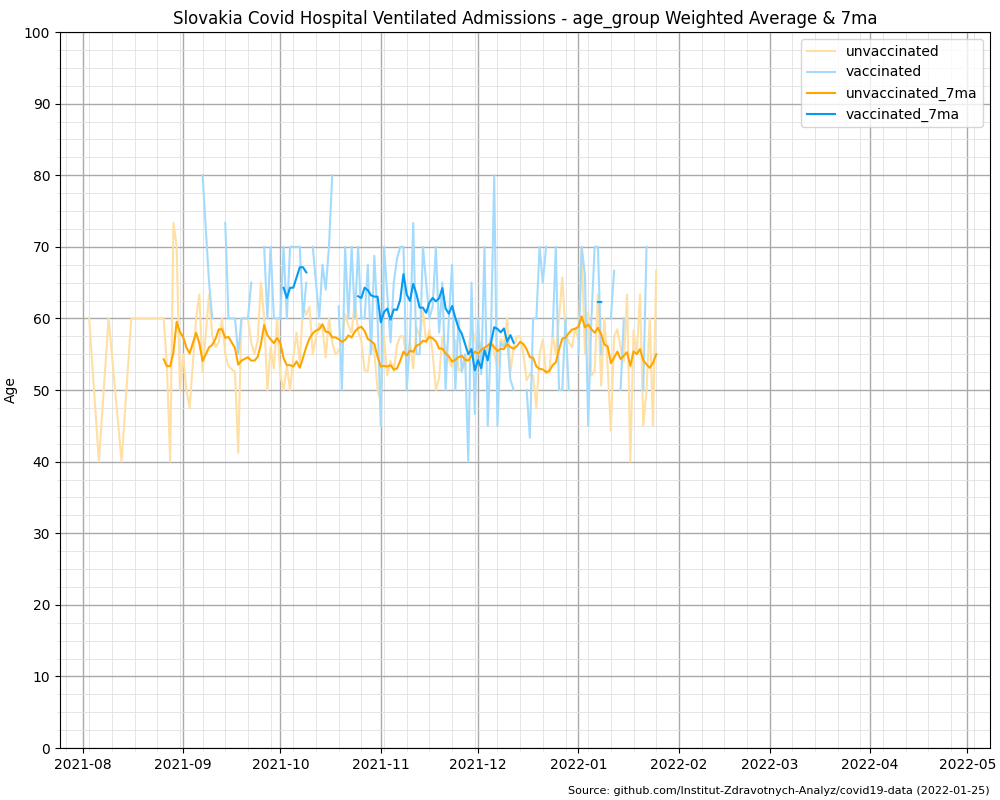
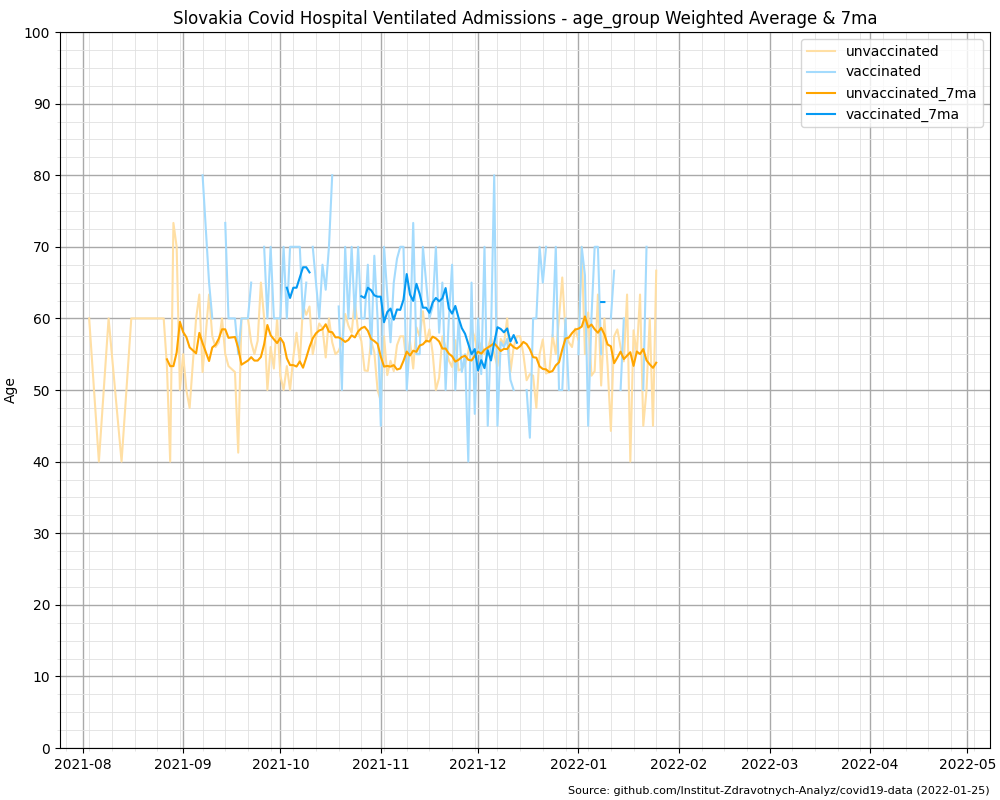
Update 2022-01-26 Updated 7ma function in Ventilated_Admissions_Age_WAverage_by_Vaccine_Daily.py Updated 7ma function and changed weekly bars to daily in Admissions_Age_WAverage_by_Vaccine_Daily.py

diff --git a/Hospitalizations/Admissions_Age_WAverage_by_Vaccine_Daily.py b/Hospitalizations/Admissions_Age_WAverage_by_Vaccine_Daily.py
@@ -62,24 +62,21 @@ if is_uri_ok(uri):
   result = pd.DataFrame.join(wa_unvaccinated.to_frame(), wa_vaccinated.to_frame(), on='Date')
   result = result.join(unk.to_frame(), on='Date')
 
-  # - Add moving average
-  result['unvaccinated_7ma'] = result['unvaccinated'].rolling(7).mean()
-  result['vaccinated_7ma'] = result['vaccinated'].rolling(7).mean()
-  result['unknown_7ma'] = result['unknown'].rolling(7).mean()
+  # - Moving average
+  result['unvaccinated_7ma'] = result['unvaccinated'].rolling(7, closed='left').mean()
+  result['vaccinated_7ma'] = result['vaccinated'].rolling(7, closed='left').mean()
+  result['unknown_7ma'] = result['unknown'].rolling(7, closed='left').mean()
 
-  # --- Sum admissions Weekly - Axis 1
-  rawAdm = raw
-  rawAdm['WeekDateMO'] = rawAdm['Date'] - rawAdm['Date'].dt.weekday.astype('timedelta64[D]') # Create week start date (Monday)
-
-  # - Sum vaccine status (True/False) on admissions
-  pA = pd.pivot_table(rawAdm, index=['WeekDateMO', 'age_group'] , columns=['Vaccinated'], values='Admissions', aggfunc=np.sum, fill_value=0)
-  pA = pA.rename(columns={False:'unvaccinated', True:'vaccinated'})
-
-  # - Sum admissions
+  # --- Sum admissions Daily - Axis 1
   resultAD = pd.DataFrame()
-  resultAD['unvaccinated_adm'] = pA['unvaccinated'].groupby(level=['WeekDateMO']).sum()
-  resultAD['vaccinated_adm'] = pA['vaccinated'].groupby(level=['WeekDateMO']).sum()
-  resultAD['unknown_adm'] = pA['unknown'].groupby(level=['WeekDateMO']).sum()
+  resultAD['unvaccinated_adm'] = p['unvaccinated'].groupby(level=['Date']).sum()
+  resultAD['vaccinated_adm'] = p['vaccinated'].groupby(level=['Date']).sum()
+  resultAD['unknown_adm'] = p['unknown'].groupby(level=['Date']).sum()
+
+  # - Moving average
+  resultAD['unvaccinated_adm_7ma'] = resultAD['unvaccinated_adm'].rolling(7, closed='left').mean()
+  resultAD['vaccinated_adm_7ma'] = resultAD['vaccinated_adm'].rolling(7, closed='left').mean()
+  resultAD['unknown_adm_7ma'] = resultAD['unknown_adm'].rolling(7, closed='left').mean()
 
   # print(result)
   # print(resultAD)
@@ -90,7 +87,7 @@ if is_uri_ok(uri):
 
   # Common axis settings:
   for ax in axs:
-    ax.set_prop_cycle(color=['#898989','#069af3','#ffa500'])
+    ax.set_prop_cycle(color=['#D9D9D9','#A4DBFD','#FFDFA4','#898989','#069af3','#ffa500'])
     # Grid, major and minor ticks settings
     ax.grid(visible=True, which='both')
     ax.minorticks_on()
@@ -109,7 +106,6 @@ if is_uri_ok(uri):
   
   # 0. Axis - Daily weighten average age
   ax = axs[0]
-  ax.set_prop_cycle(color=['#D9D9D9','#A4DBFD','#FFDFA4','#898989','#069af3','#ffa500'])
   ax.plot(result['unknown'], label='unknown')
   ax.plot(result['vaccinated'], label='vaccinated')
   ax.plot(result['unvaccinated'], label='unvaccinated')
@@ -125,17 +121,21 @@ if is_uri_ok(uri):
   ax.set_ylabel("Age")
   ax.set_ylim(35, 85)
 
-  # 1. Axis - Weekly admissions
+  # 1. Axis - Daily admissions
   ax = axs[1]
-  ax.bar(resultAD.index, resultAD['unknown_adm'].values, width=4, align='edge')
-  ax.bar(resultAD.index, resultAD['vaccinated_adm'].values, bottom=resultAD['unknown_adm'].values, width=4, align='edge')
-  ax.bar(resultAD.index, resultAD['unvaccinated_adm'].values, bottom=resultAD['unknown_adm'].values+resultAD['vaccinated_adm'].values, width=4, align='edge')  
-  ax.set_title('Slovakia Covid Hospital Admission Weekly', loc='left', y=0.9, x=0.02, fontsize='medium', backgroundcolor='white')
-  ax.yaxis.set_major_locator(mticker.MultipleLocator(1000))
-  ax.yaxis.set_minor_locator(mticker.MultipleLocator(200))
+  ax.bar(resultAD.index, resultAD['unknown_adm'].values, width=1, align='edge')
+  ax.bar(resultAD.index, resultAD['vaccinated_adm'].values, bottom=resultAD['unknown_adm'].values, width=1, align='edge')
+  ax.bar(resultAD.index, resultAD['unvaccinated_adm'].values, bottom=resultAD['unknown_adm'].values+resultAD['vaccinated_adm'].values, width=1, align='edge')
+  ax.set_prop_cycle(color=['#898989','#069af3','#ffa500'])
+  ax.plot(resultAD['unknown_adm_7ma'], label='unknown_7ma')
+  ax.plot(resultAD['vaccinated_adm_7ma']+resultAD['unknown_adm_7ma'].values, label='vaccinated_7ma')
+  ax.plot(resultAD['unvaccinated_adm_7ma']+resultAD['unknown_adm_7ma'].values+resultAD['vaccinated_adm_7ma'].values, label='unvaccinated_7ma')
+  ax.set_title('Slovakia Covid Hospital Admission Daily', loc='left', y=0.9, x=0.02, fontsize='medium', backgroundcolor='white')
+  ax.yaxis.set_major_locator(mticker.MultipleLocator(100))
+  ax.yaxis.set_minor_locator(mticker.MultipleLocator(20))
   ax.set_xlabel(None)
   ax.set_ylabel("Admissions", labelpad=0)
-  ax.set_ylim(0, 3000)
+  ax.set_ylim(0, 500)
 
   # Note inside plot
   ax.annotate('Source: github.com/Institut-Zdravotnych-Analyz/covid19-data (' + str(release_date) + ')',

diff --git a/Hospitalizations/Ventilated_Admissions_Age_WAverage_by_Vaccine_Daily.py b/Hospitalizations/Ventilated_Admissions_Age_WAverage_by_Vaccine_Daily.py
@@ -62,8 +62,8 @@ if is_uri_ok(uri):
   # print(type(result))
 
   # --- Add moving average
-  result['unvaccinated_7ma'] = result['unvaccinated'].rolling(7).mean()
-  result['vaccinated_7ma'] = result['vaccinated'].rolling(7).mean()
+  result['unvaccinated_7ma'] = result['unvaccinated'].rolling(7, closed='left').mean()
+  result['vaccinated_7ma'] = result['vaccinated'].rolling(7, closed='left').mean()
 
   # --- Plot Data
   ax = result.plot.line(title='Slovakia Covid Hospital Ventilated Admissions - age_group Weighted Average & 7ma', figsize=(10,8), color = ['#FFDFA4', '#A4DBFD', '#ffa500', '#069af3'])
